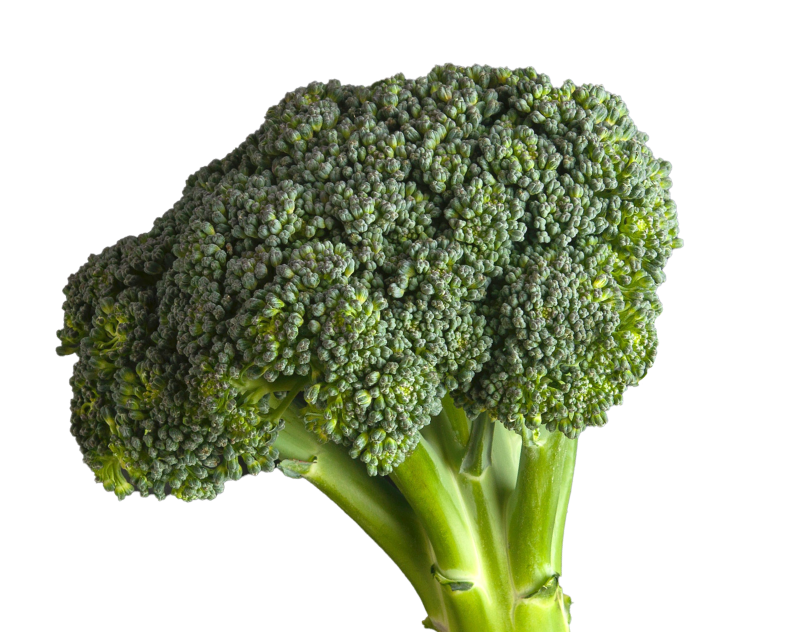
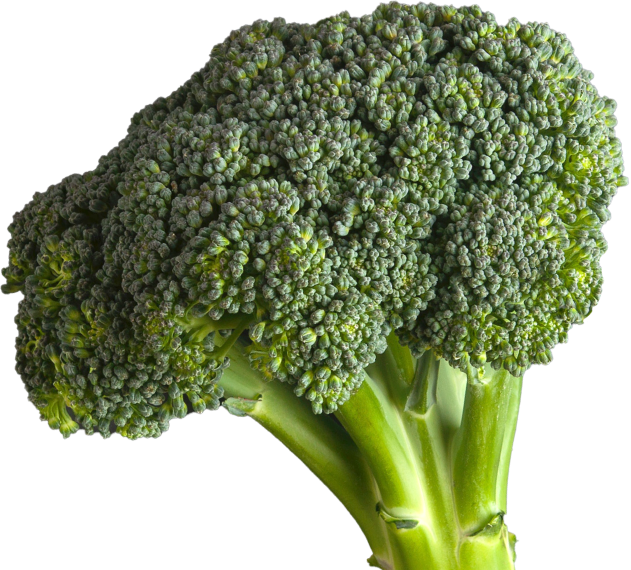
Finished the summer page

diff --git a/pages/summer.html b/pages/summer.html
@@ -151,7 +151,7 @@
                 <a href="https://ottawa.bibliocommons.com/v2/record/S26C1367536"><span class="references"><em>Freeze Fresh by Crystal Schmidt</em></span></a>
             </div>
             <div class="col-lg-6 col-xs-12 image-section4">
-                <img src="../assets/summer/book-freeze-fresh-section4.png" alt="Freeze fresh book cover fruits">
+                <img src="../assets/summer/book-freeze-fresh-section4.jpg" alt="Freeze fresh book cover fruits">
             </div>
         </div>       
     </div>
@@ -173,16 +173,16 @@
                 </ul>
             </div>
             <div class="col-lg-6 col-xs-12 image-section5">
-                <img src="../assets/summer/image-reading-section5.png" alt="A child and its grandmother reading together a book ">
+                <img src="../assets/summer/image-reading-section5.jpg" alt="A child and its grandmother reading together a book ">
             </div>
         </div>     
         <div class="row footer justify-content-between">
             <div class="col-lg-6 col-xs-12 footer-sec1">
-                <img src="../assets/summer/broccoli-section5.png" alt="flower">
+                <img src="../assets/summer/broccoli-section5.png" alt="Broccoli">
             </div>
-            <div class="col-lg-4 col-xs-12 float-right footer-sec2 ">
-                    <img class="footer-brand" src="../assets/summer/logo.png" alt="logo">
-                    <h2>Did you help the <br> environment <br> before?</h2>
+            <div class="col-lg-6 col-xs-12 footer-sec2 ">
+                    <img class="footer-brand" src="../assets/summer/logo-summer-section5.svg" alt="logo">
+                    <h2 class="title-footer">Did you help the <br> environment <br> before?</h2>
                     <h2>We're all ears!</h2>
                         <button id="summer-btn2" type="button" class="custom-btn">
                             <a href="form.html">Share your thoughts!</a>

diff --git a/css/summer.css b/css/summer.css
@@ -39,6 +39,7 @@
 #summer-btn2 {
     background-color: var(--summer-brand);
     border: 2px solid var(--summer-brand); 
+    margin-right: 0.5rem;
 }
 
 #summer-btn2 a {
@@ -59,20 +60,20 @@
 
 #summer-btn3 {
     border: 2px solid var(--summer-accent);   
-    background-color: var(--summer-primary);
+    background-color: var(--summer-accent);
 }
 
 #summer-btn3 a {
     text-decoration: none;
-    color: var(--summer-accent);
+    color: #fff;
 }
 
 #summer-btn3:hover{
-    background-color: var(--summer-accent);
+    background-color: var(--summer-primary);
 }
 
 #summer-btn3:hover a{
-    color: white;
+    color: var(--summer-accent);
 }
 
 /* Summer Images */
@@ -82,6 +83,14 @@
 #summer-fifth-sec img{
     padding: 0;
     margin:0;
+}
+
+#summer-fsec-img1, #summer-fsec-img2 {
+    max-width: 210px;
+}
+
+#summer-fsec-img3, #summer-fsec-img4 {
+    max-width: 410px;
 }
 
 /* Summer First Section */
@@ -129,7 +138,7 @@
     z-index: 100;
 }
 
-#summer-fsec-img1, #summer-fsec-img2, #summer-fsec-img5, #summer-fsec-img6 {
+#summer-fsec-img5, #summer-fsec-img6 {
     max-width: 250px;
 }
 
@@ -281,7 +290,8 @@
 #summer-fifth-sec .footer-sec1 img {
     position: absolute;
     bottom: 0;
-    left: 10%;
+    left: 11%;
+    max-width: 500px;
 }
 
 .text-section5 li {
@@ -301,6 +311,13 @@
     padding-left: 8%;
 }
 
+.footer-sec2 {
+    padding-right: 10%;
+}
+
+.title-footer {
+    padding-top: 2rem;
+}
 
 
 

diff --git a/css/spring.css b/css/spring.css
@@ -278,6 +278,7 @@
     position: absolute;
     bottom: 0;
     left: 10%;
+    max-width: 500px;
 }
 
 .image-section5 {
